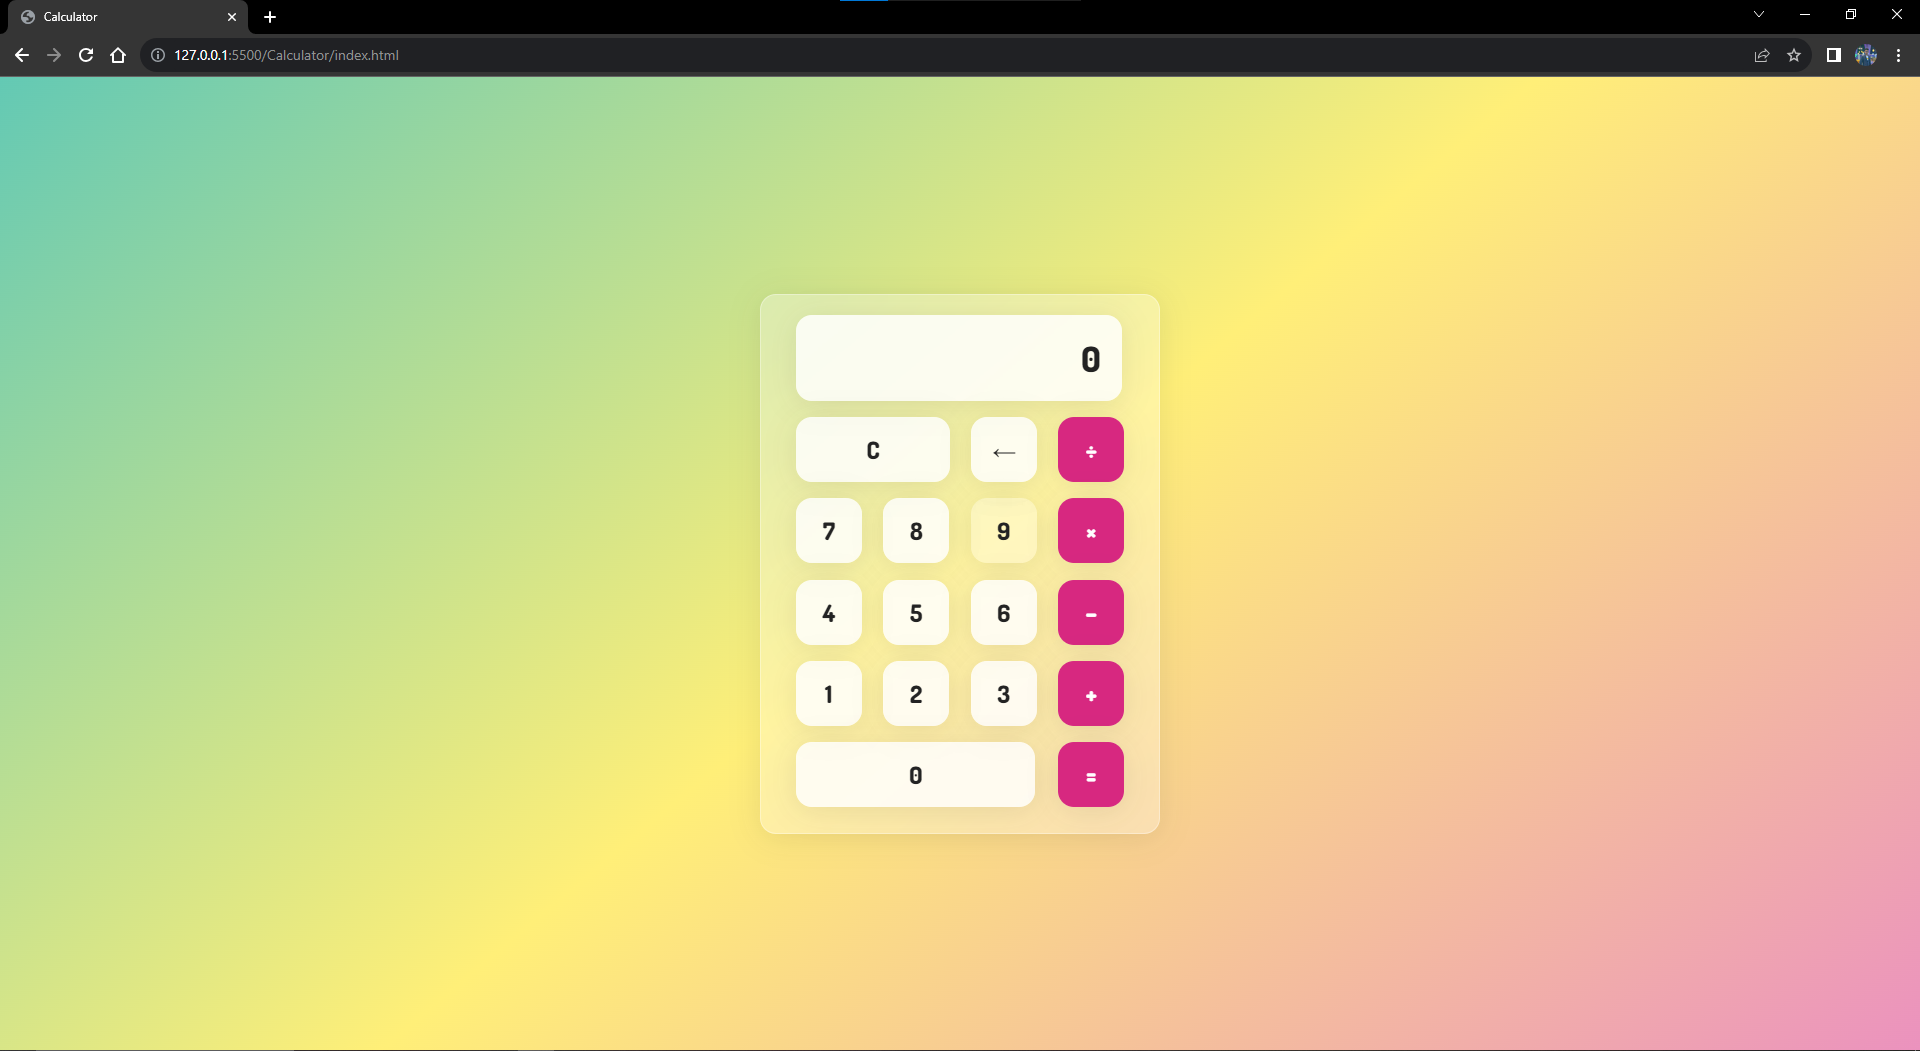
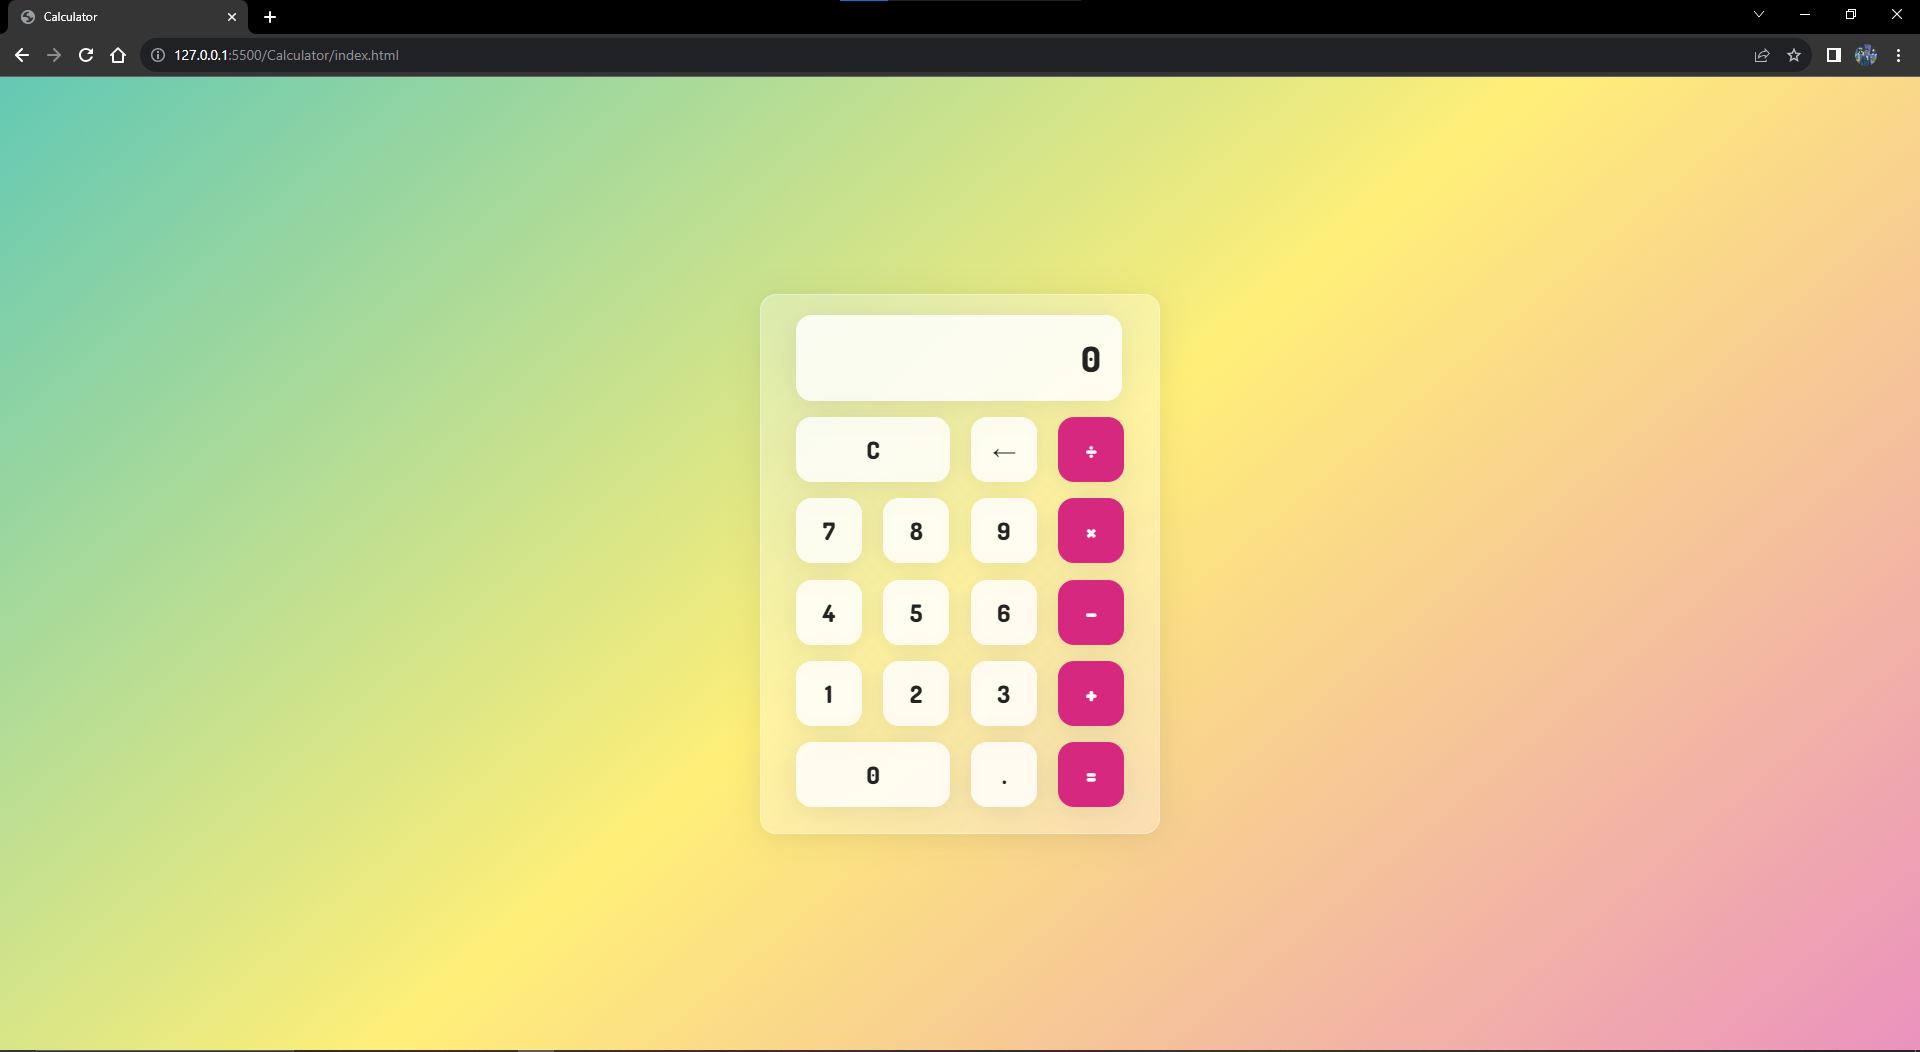
added decimal functionality in cal

Changed region(s): [[0.5, 0.4567, 0.5625, 0.548], [0.4688, 0.7003, 0.5312, 0.7612]]

diff --git a/Calculator/script.js b/Calculator/script.js
@@ -1,86 +1,132 @@
-let runningTotal = 0;
-let buffer = "0";
-let previousOperator;
+// Initialize variables to manage calculator state
+let runningTotal = 0; // Stores the running total of calculations
+let buffer = "0"; // Stores the current input or number
+let previousOperator; // Stores the previous operator pressed
+let decimalFlag = false; // Flag to track if a decimal point has been entered
 
+// Get the calculator screen element
 const screen = document.querySelector('.screen');
 
+// Function to handle button clicks
 function buttonClick(value) {
-    if(isNaN(value)) {
+    if (isNaN(value)) {
+        // If the value is not a number, handle it as a symbol
         handleSymbol(value);
-    }else {
+    } else {
+        // If the value is a number, handle it as a number
         handleNumber(value);
     }
+    // Update the screen display with the current buffer value
     screen.innerText = buffer;
 }
 
+// Function to handle symbols (e.g., C, =, ←, +, −, ×, ÷)
 function handleSymbol(symbol) {
-    switch(symbol) {
+    switch (symbol) {
         case 'C':
+            // Clear the buffer and runningTotal
             buffer = '0';
             runningTotal = 0;
+            decimalFlag = false; // Reset the decimal flag
             break;
         case '=':
-            if(previousOperator === null) {
-                return
+            // If there's a previous operator, perform the calculation
+            if (previousOperator === null) {
+                return;
             }
-            flushOperation(parseInt(buffer));
+            flushOperation(parseFloat(buffer)); // Parse buffer as a float for decimal support
+            // Reset previousOperator, update buffer with the result, and reset runningTotal
             previousOperator = null;
-            buffer = runningTotal;
+            buffer = runningTotal.toString();
             runningTotal = 0;
+            decimalFlag = buffer.includes('.'); // Check if the result contains a decimal
             break;
         case '←':
-            if(buffer.length === 1) {
+            // Handle backspace by removing the last character from the buffer
+            if (buffer.length === 1) {
                 buffer = '0';
-            }else {
-                buffer = buffer.substringString(0, buffer.length - 1);
+            } else {
+                buffer = buffer.substring(0, buffer.length - 1);
+                decimalFlag = buffer.includes('.'); // Check if the remaining buffer contains a decimal
             }
             break;
         case '+':
         case '−':
         case '×':
         case '÷':
+            // Handle math operators (+, −, ×, ÷)
             handleMath(symbol);
+            break;
+        case '.':
+            // Handle decimal point input
+            if (!decimalFlag) {
+                buffer += '.';
+                decimalFlag = true;
+            }
             break;
     }
 }
 
+// Function to handle math operators (+, −, ×, ÷)
 function handleMath(symbol) {
-    if(buffer === '0') {
-        return
+    if (buffer === '0') {
+        return;
     }
-    const intBuffer = parseInt(buffer);
-    if(runningTotal === 0) {
-        runningTotal = intBuffer;
-    }else {
-        flushOperation(intBuffer);
+    const floatBuffer = parseFloat(buffer); // Parse buffer as a float for decimal support
+    if (runningTotal === 0) {
+        runningTotal = floatBuffer;
+    } else {
+        flushOperation(floatBuffer);
     }
+    // Store the previous operator for later use
     previousOperator = symbol;
     buffer = '0';
+    decimalFlag = false; // Reset the decimal flag
 }
 
-function flushOperation(intBuffer) {
-    if(previousOperator === '+') {
-        runningTotal += intBuffer;
-    }else if(previousOperator === '−') {
-        runningTotal -= intBuffer;
-    }else if(previousOperator === '×') {
-        runningTotal *= intBuffer;
-    }else if(previousOperator === '÷') {
-        runningTotal /= intBuffer;
+// Function to perform the calculation based on the previous operator
+function flushOperation(floatBuffer) {
+    if (previousOperator === '+') {
+        runningTotal += floatBuffer;
+    } else if (previousOperator === '−') {
+        runningTotal -= floatBuffer;
+    } else if (previousOperator === '×') {
+        runningTotal *= floatBuffer;
+    } else if (previousOperator === '÷') {
+        if (floatBuffer === 0) {
+            // Handle division by zero
+            alert("Error: Division by zero");
+            clearCalculator();
+            return;
+        }
+        runningTotal /= floatBuffer;
     }
 }
 
+// Function to handle numbers and decimal point input
 function handleNumber(numberString) {
-    if(buffer === "0") {
+    if (buffer === "0" && numberString !== "0") {
         buffer = numberString;
-    }else {
+    } else {
         buffer += numberString;
     }
 }
-function init() {
-    document.querySelector('.calc-buttons').addEventListener('click', function(event){
-        buttonClick(event.target.innerText);
-    })
+
+// Function to clear the calculator
+function clearCalculator() {
+    buffer = '0';
+    runningTotal = 0;
+    previousOperator = null;
+    decimalFlag = false;
+    screen.innerText = buffer;
 }
 
+// Initialize the calculator by adding click event listeners to buttons
+function init() {
+    document.querySelector('.calc-buttons').addEventListener('click', function (event) {
+        buttonClick(event.target.innerText);
+    });
+}
+
+// Call the initialization function
 init();

diff --git a/Calculator/index.html b/Calculator/index.html
@@ -1,48 +1,85 @@
 <!DOCTYPE html>
 <html lang="en">
-<head>
-    <meta charset="UTF-8">
-    <meta name="viewport" content="width=device-width, initial-scale=1.0">
-    <link href="https://fonts.googleapis.com/css2?family=Dosis:wght@800&display=swap" rel="stylesheet">
-    <link rel="stylesheet" href="style.css">
+  <head>
+    <!-- Meta tags for character set and responsive design -->
+    <meta charset="UTF-8" />
+    <meta name="viewport" content="width=device-width, initial-scale=1.0" />
+
+    <!-- Link to a Google Fonts stylesheet for the 'Dosis' font -->
+    <link
+      href="https://fonts.googleapis.com/css2?family=Dosis:wght@800&display=swap"
+      rel="stylesheet"
+    />
+
+    <!-- Link to an external CSS file for styling -->
+    <link rel="stylesheet" href="style.css" />
+
+    <!-- Title of the HTML document -->
     <title>Calculator</title>
-</head>
-<body>
+  </head>
+  <body>
+    <!-- Calculator wrapper -->
     <div class="wrapper">
-        <section class="screen">
-            0
-        </section>
-        <section class="calc-buttons">
-            <div class="calc-button-row">
-                <button class="calc-button double"> C </button>
-                <button class="calc-button"> &larr; </button>
-                <button class="calc-button"> &divide; </button>
-            </div>
-            <div class="calc-button-row">
-                <button class="calc-button"> 7 </button>
-                <button class="calc-button"> 8 </button>
-                <button class="calc-button"> 9 </button>
-                <button class="calc-button"> &times; </button>
-            </div>
-            <div class="calc-button-row">
-                <button class="calc-button"> 4 </button>
-                <button class="calc-button"> 5 </button>
-                <button class="calc-button"> 6 </button>
-                <button class="calc-button"> &minus; </button>
-            </div>
-            <div class="calc-button-row">
-                <button class="calc-button"> 1 </button>
-                <button class="calc-button"> 2 </button>
-                <button class="calc-button"> 3 </button>
-                <button class="calc-button"> &plus; </button>
-            </div>
-            <div class="calc-button-row">
-                <button class="calc-button triple"> 0 </button>
-                <button class="calc-button"> &equals; </button>
-            </div>
-        </section>
+      <!-- Display screen for calculator -->
+      <section class="screen">
+        0
+        <!-- Initial display content -->
+      </section>
+
+      <!-- Calculator buttons section -->
+      <section class="calc-buttons">
+        <!-- Calculator button rows -->
+
+        <!-- Row 1: Clear, Backspace, Division -->
+        <div class="calc-button-row">
+          <button class="calc-button double">C</button>
+          <!-- Clear button -->
+          <button class="calc-button">&larr;</button>
+          <!-- Backspace (delete) button -->
+          <button class="calc-button">&divide;</button>
+          <!-- Division operator button -->
+        </div>
+
+        <!-- Row 2: Digits 7, 8, 9, Multiplication -->
+        <div class="calc-button-row">
+          <button class="calc-button">7</button>
+          <button class="calc-button">8</button>
+          <button class="calc-button">9</button>
+          <button class="calc-button">&times;</button>
+          <!-- Multiplication operator button -->
+        </div>
+
+        <!-- Row 3: Digits 4, 5, 6, Subtraction -->
+        <div class="calc-button-row">
+          <button class="calc-button">4</button>
+          <button class="calc-button">5</button>
+          <button class="calc-button">6</button>
+          <button class="calc-button">&minus;</button>
+          <!-- Subtraction operator button -->
+        </div>
+
+        <!-- Row 4: Digits 1, 2, 3, Addition -->
+        <div class="calc-button-row">
+          <button class="calc-button">1</button>
+          <button class="calc-button">2</button>
+          <button class="calc-button">3</button>
+          <button class="calc-button">&plus;</button>
+          <!-- Addition operator button -->
+        </div>
+
+        <!-- Row 5: Digit 0, Decimal Point, Equals -->
+        <div class="calc-button-row">
+          <button class="calc-button double">0</button>
+          <!-- Zero button -->
+          <button class="calc-button">.</button>
+          <!-- Decimal button -->
+          <button class="calc-button">&equals;</button>
+          <!-- Equals (calculate) button -->
+        </div>
+      </section>
     </div>
 
+    <!-- JavaScript file for calculator functionality -->
     <script src="script.js"></script>
-</body>
+  </body>
 </html>
